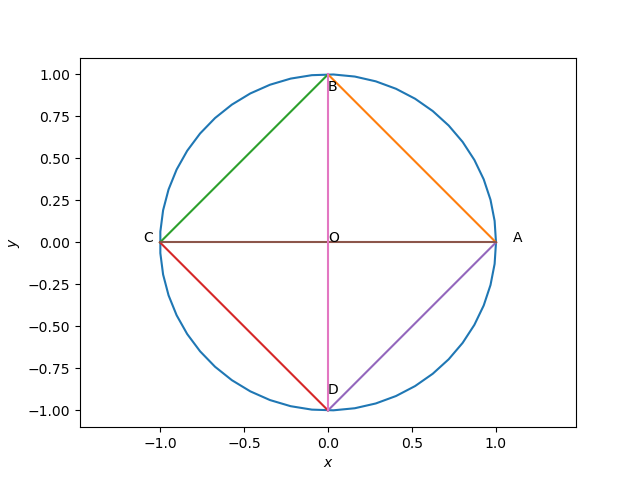
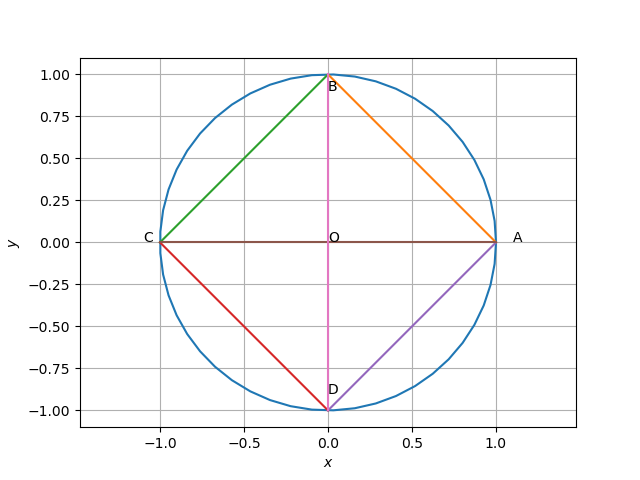
grid fig

diff --git a/9.10.6.7/codes/ans.py b/9.10.6.7/codes/ans.py
@@ -73,4 +73,5 @@ plt.text(O[0]*(1+0.1), O[1]*(1-0.1) , 'O')
 plt.xlabel('$x$')
 plt.ylabel('$y$')
 plt.axis('equal')
+plt.grid()
 plt.savefig('/home/lokesh/EE2802/EE2802-Machine_learning/9.10.6.7/figs/circle.png')
